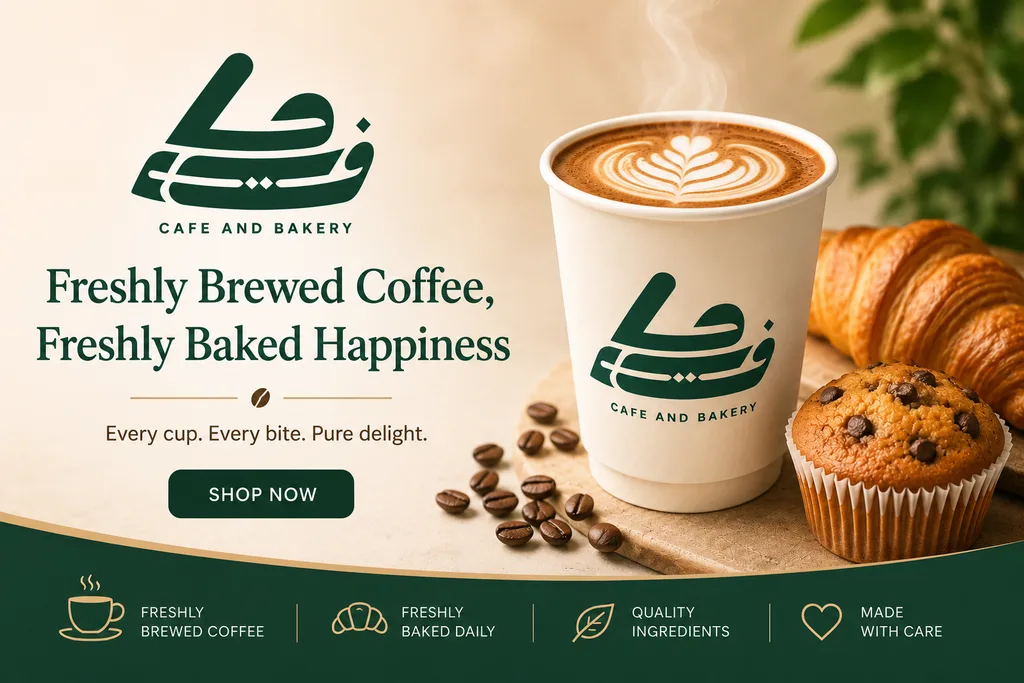
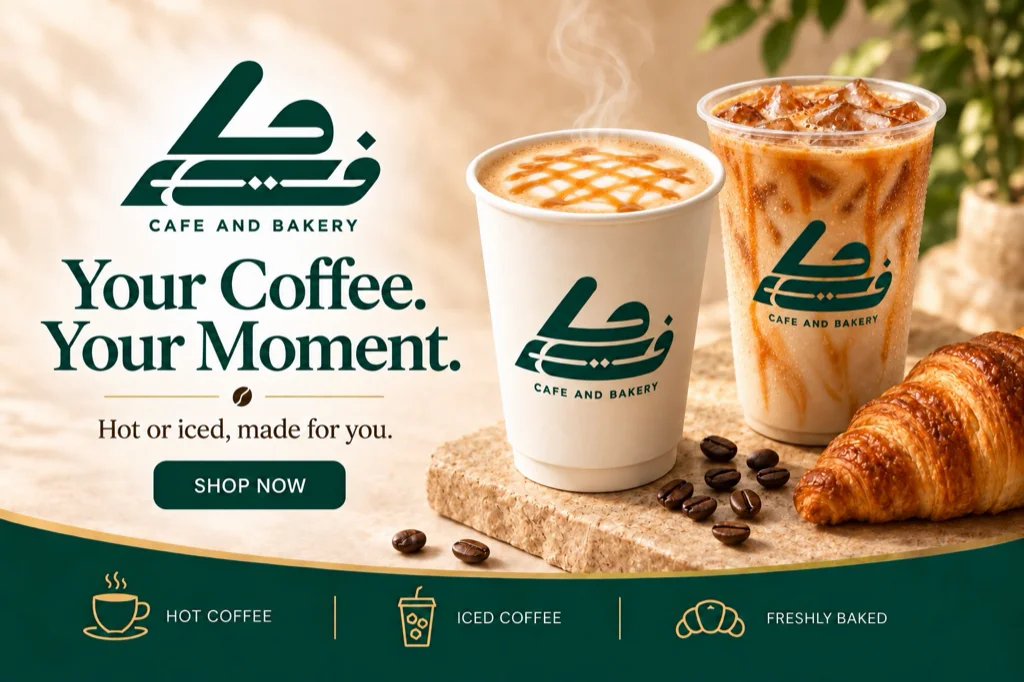
feat: update storefront hero and footer content

diff --git a/frontend/src/pages/Home.jsx b/frontend/src/pages/Home.jsx
@@ -1,4 +1,4 @@
-import { Link, useOutletContext } from "react-router-dom";
+import { Link, useOutletContext, useNavigate } from "react-router-dom";
 import { useQuery } from "@tanstack/react-query";
 import { ArrowRight } from "lucide-react";
 import api from "@/lib/api";
@@ -17,17 +17,18 @@ const HERO_BY_LANG = {
     en: {
         src: "/hero-cafe-bakery-1024.webp",
         srcSet: "/hero-cafe-bakery-640.webp 640w, /hero-cafe-bakery-1024.webp 1024w, /hero-cafe-bakery-1536.webp 1536w",
-        alt: "Faiha Cafe and Bakery — Freshly Brewed Coffee, Freshly Baked Happiness",
+        alt: "Your Coffee. Your Moment — Faiha Cafe with Freshly Brewed Coffee and Croissants",
     },
     ar: {
         src: "/hero-cafe-bakery-ar-1024.webp",
         srcSet: "/hero-cafe-bakery-ar-640.webp 640w, /hero-cafe-bakery-ar-1024.webp 1024w, /hero-cafe-bakery-ar-1536.webp 1536w",
-        alt: "مقهى ومخبز الفيحاء — قهوة محضرة طازجة، مخبوزات طازجة، سعادة كل يوم",
+        alt: "قهوتك. لحظتك — مقهى الفيحاء مع القهوة المحضرة الطازجة والكرواسان",
     },
 };
 
 export default function Home() {
     const { t, ln, lang } = useLang();
+    const navigate = useNavigate();
     const { categories = [] } = useOutletContext();
     const hero = HERO_BY_LANG[lang] || HERO_BY_LANG.en;
 
@@ -52,7 +53,7 @@ export default function Home() {
         <div data-testid="home-page">
             {/* Hero */}
             <section className="mx-auto max-w-7xl px-4 sm:px-6 pt-6">
-                <div className="overflow-hidden rounded-3xl">
+                <div className="relative overflow-hidden rounded-3xl group cursor-pointer" onClick={() => navigate("/products")}>
                     <img
                         key={lang}
                         src={hero.src}
@@ -61,12 +62,20 @@ export default function Home() {
                         width={HERO_W}
                         height={HERO_H}
                         alt={hero.alt}
-                        className="w-full h-auto block"
+                        className="w-full h-auto block group-hover:scale-105 transition-transform duration-500"
                         loading="eager"
                         fetchPriority="high"
                         decoding="async"
                         data-testid="hero-banner"
                     />
+                    <div className="absolute inset-0 bg-black/0 group-hover:bg-black/10 transition-colors duration-300" />
+                    <button
+                        onClick={(e) => { e.stopPropagation(); navigate("/products"); }}
+                        className="absolute bottom-6 left-1/2 -translate-x-1/2 px-8 py-3 bg-forest hover:bg-forest-dark text-white font-semibold rounded-full transition-all duration-300 shadow-lg hover:shadow-xl hover:scale-105 active:scale-95"
+                        data-testid="hero-shop-button"
+                    >
+                        {t("shop_now") || "Shop Now"}
+                    </button>
                 </div>
             </section>
 

diff --git a/frontend/src/components/storefront/Footer.jsx b/frontend/src/components/storefront/Footer.jsx
@@ -1,5 +1,5 @@
 import { Link } from "react-router-dom";
-import { MapPin, Phone, Mail, Clock } from "lucide-react";
+import { MapPin, Phone, Mail } from "lucide-react";
 import { useLang } from "@/context/LanguageContext";
 
 export const Footer = () => {
@@ -28,7 +28,6 @@ export const Footer = () => {
                         <li className="flex items-center gap-2"><MapPin className="w-4 h-4 shrink-0" /> Faiha, Kuwait</li>
                         <li className="flex items-center gap-2"><Phone className="w-4 h-4 shrink-0" /> +965 1861000</li>
                         <li className="flex items-center gap-2"><Mail className="w-4 h-4 shrink-0" /> <a href="mailto:info@faihacoopkw.com" className="hover:text-white break-all">info@faihacoopkw.com</a></li>
-                        <li className="flex items-center gap-2"><Clock className="w-4 h-4 shrink-0" /> {t("hours_24")}</li>
                     </ul>
                 </div>
             </div>
